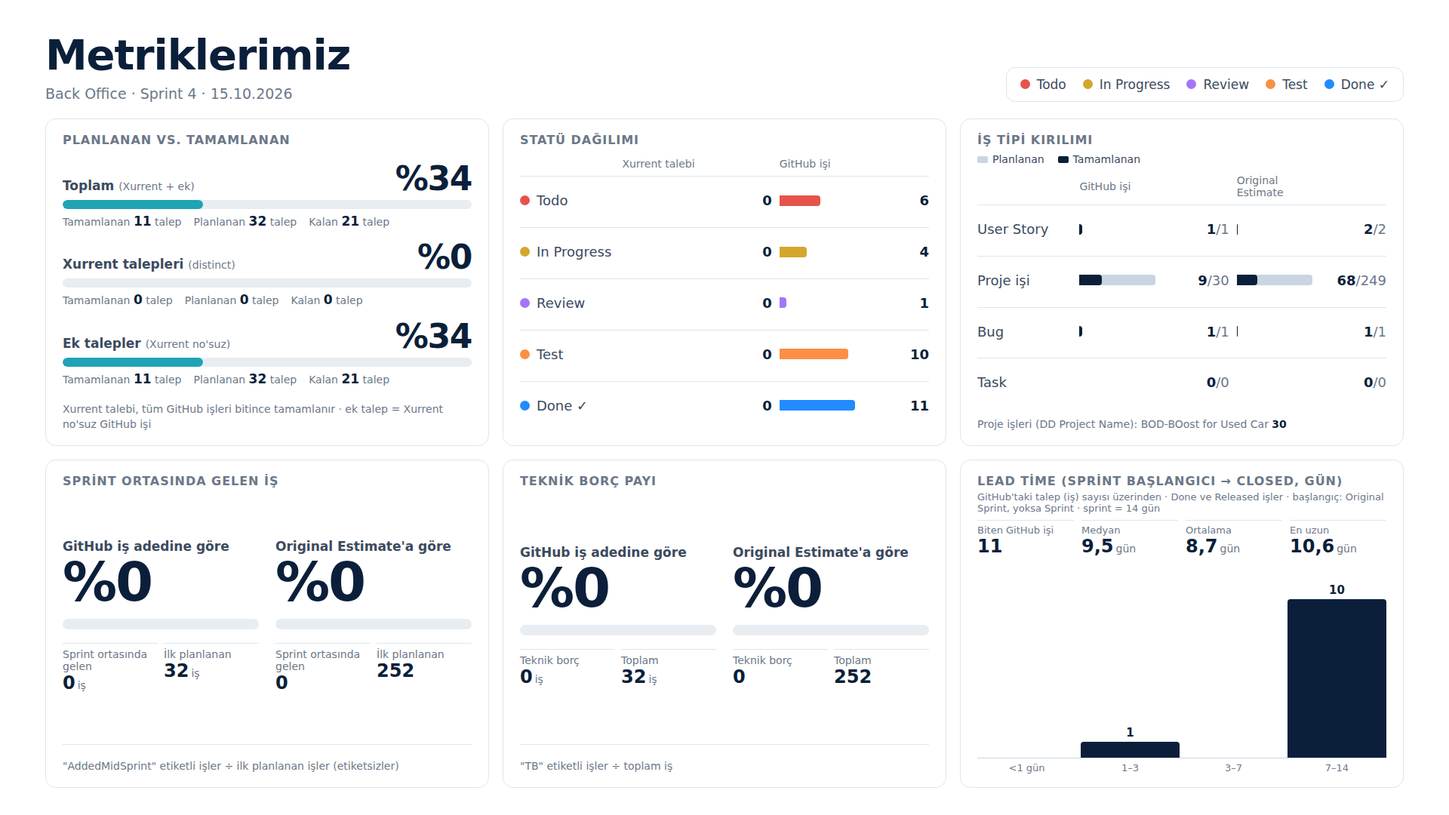
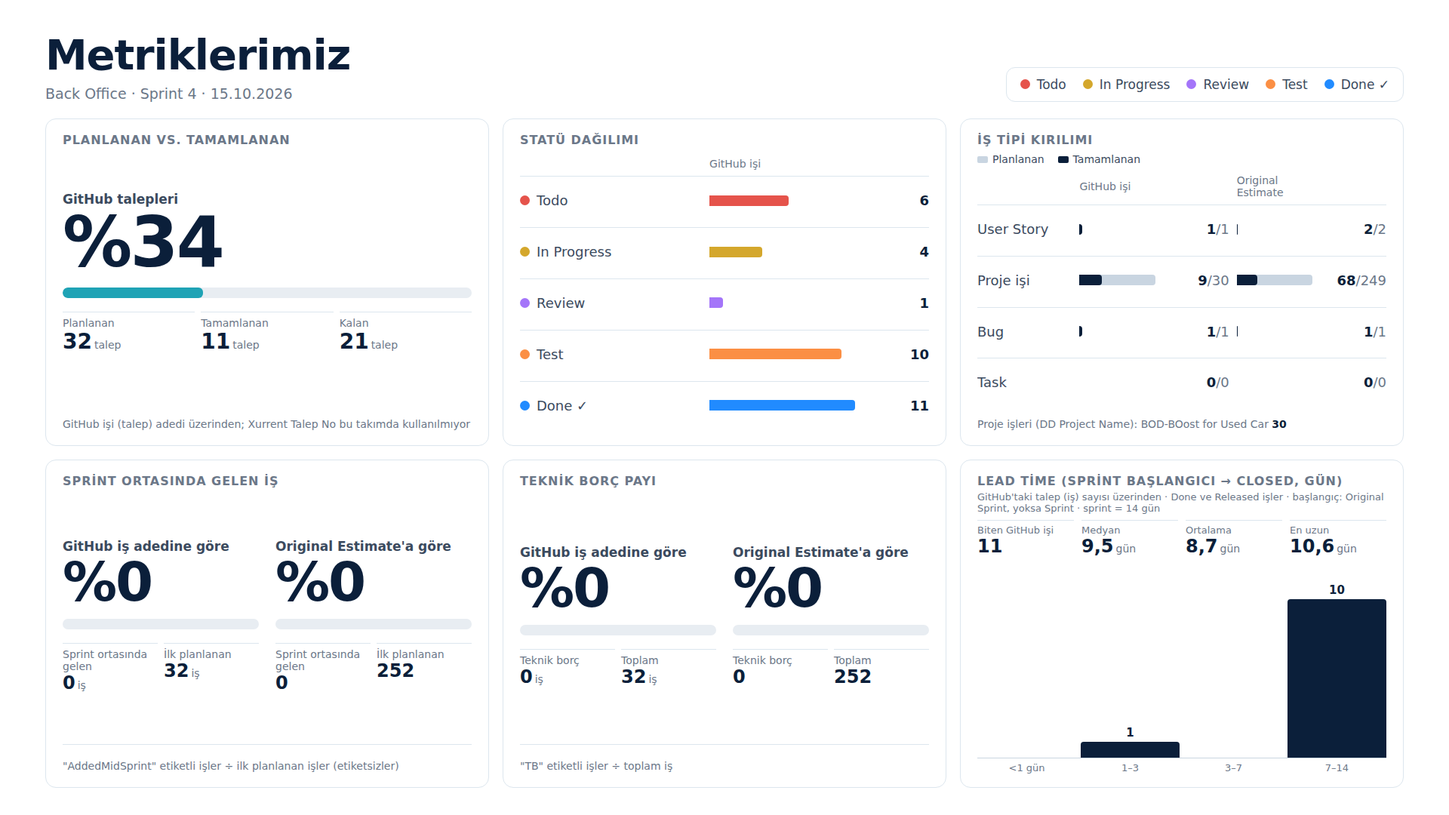
Back Office: --ignore-xurrent mode (GitHub item counts only) and merging parts via shared theme names
- --ignore-xurrent drops Xurrent grouping/ratios: single GitHub completion, single-column status, OE total only
- theme entries with the same name merge into one item with 'N talep' (e.g. BE + FE, SAP + Boomi)
- regenerate Back Office Sprint 4 slides

Claude-Session: https://claude.ai/code/session_014SYUQQBmb2NC56QaszpaqB

diff --git a/sunum/back-office-2026-10-15/back-office-slaytlar.html b/sunum/back-office-2026-10-15/back-office-slaytlar.html
@@ -168,10 +168,12 @@ h1 span { color:var(--accent); font-weight:600; }
 <div class="frame"><section class="slide" aria-label="Sprint'te Odaklandığımız İşler">
   <header>
     <div><h1>Sprint'te Odaklandığımız İşler</h1>
-      <div class="sub">Back Office · Sprint 4 · 15.10.2026 · 32 talep (32 GitHub işi)</div></div>
+      <div class="sub">Back Office · Sprint 4 · 15.10.2026 · 30 talep (32 GitHub işi)</div></div>
     <ul class="legend"><li><span class="dot" style="--c:#E5534B"></span>Todo</li><li><span class="dot" style="--c:#D4A72C"></span>In Progress</li><li><span class="dot" style="--c:#A475F9"></span>Review</li><li><span class="dot" style="--c:#FB8F44"></span>Test</li><li><span class="dot" style="--c:#218BFF"></span>Done ✓</li><li class="sep"></li><li><span class="cat story">Kategori</span>&nbsp;= iş tipi grubu</li><li><span class="kmeta">N talep</span>&nbsp;= GitHub işi adedi (birden fazlaysa)</li><li><span class="carry">↪ Sprint N</span>&nbsp;= o sprintten aktarıldı</li></ul>
   </header>
-  <div class="board" style="grid-template-columns:repeat(36, minmax(0,1fr))"><div class="lane" style="grid-column:span 6"><div class="lhead" style="--c:#E5534B"><span>Yapılacak</span><b>6</b><small>6 iş</small></div><div class="cards"><div class="kgroup"><div class="khead proj">Proje<span>6</span></div><div class="kitem" title="Todo · Jarivs/BOost Otomasyon Development"><span class="dot" style="--c:#E5534B"></span><span class="kt">Jarvis / BOost test otomasyonlarının geliştirilmesi</span></div><div class="kitem" title="Todo · Jarvis FE Deprecation Uyarılarının Giderilmesi ve Sadeleştirme Çalışmaları"><span class="dot" style="--c:#E5534B"></span><span class="kt">Jarvis arayüzünde eskiyen bileşen uyarılarının giderilmesi ve sadeleştirme</span></div><div class="kitem" title="Todo · Opsiyon Süreci Masterpass Entegrasyonu Teknik Analiz"><span class="dot" style="--c:#E5534B"></span><span class="kt">Opsiyon sürecine Masterpass ödeme entegrasyonu – teknik analiz</span></div><div class="kitem" title="Todo · SF Beklenenler"><span class="dot" style="--c:#E5534B"></span><span class="kt">Salesforce tarafından beklenenlerin takibi</span></div><div class="kitem" title="Todo · SAP Notlar"><span class="dot" style="--c:#E5534B"></span><span class="kt">SAP tarafında beklenen notların takibi</span></div><div class="kitem" title="Todo · 5.10.26/ 16.10.26 Sprint 4 Toplantı Taskı"><span class="dot" style="--c:#E5534B"></span><span class="kt">Sprint 4 toplantıları (05.10–16.10)</span></div></div></div></div><div class="lane" style="grid-column:span 5"><div class="lhead" style="--c:#D4A72C"><span>Geliştirmede</span><b>5</b><small>5 iş</small></div><div class="cards"><div class="kgroup"><div class="khead proj">Proje<span>5</span></div><div class="kitem" title="In Progress · BOI/BOPK - BOD Satış süreçlerinin entegrasyonu (Sap,devir süreçler, stoklaşma) Analizi"><span class="dot" style="--c:#D4A72C"></span><span class="kt">BOD satış süreçlerinin SAP, devir ve stoklaşma entegrasyonu analizi <span class="kmeta">In Progress</span></span></div><div class="kitem" title="In Progress · Jarvis FE Kod Temizliği"><span class="dot" style="--c:#D4A72C"></span><span class="kt">Jarvis arayüz kodunun temizlenmesi <span class="kmeta">In Progress</span></span></div><div class="kitem" title="In Progress · IDN-01 | Identity Kullanım Envanterinin Oluşturulması"><span class="dot" style="--c:#D4A72C"></span><span class="kt">Kimlik (Identity) kullanım envanterinin çıkarılması <span class="kmeta">In Progress</span></span></div><div class="kitem" title="In Progress · UCBoost Gelen Sorular için Destek"><span class="dot" style="--c:#D4A72C"></span><span class="kt">UCBoost kullanıcı sorularına destek <span class="kmeta">In Progress</span></span></div><div class="kitem" title="Review · Araç Opsiyonlama Analizi"><span class="dot" style="--c:#A475F9"></span><span class="kt">Araç opsiyonlama süreci analizi <span class="kmeta">Review</span></span></div></div></div></div><div class="lane" style="grid-column:span 10"><div class="lhead" style="--c:#FB8F44"><span>Test</span><b>10</b><small>10 iş</small></div><div class="cards"><div class="kgroup"><div class="khead proj">Proje<span>10</span></div><div class="kitem" title="Test · Araç Alım Faturası İptal Servisinin Geliştirilmesi (Boomi)"><span class="dot" style="--c:#FB8F44"></span><span class="kt">Araç alım faturası iptal servisi (Boomi entegrasyonu)</span></div><div class="kitem" title="Test · Araç Alım Faturası İptal Servisinin Geliştirilmesi (SAP)"><span class="dot" style="--c:#FB8F44"></span><span class="kt">Araç alım faturası iptal servisi (SAP)</span></div><div class="kitem" title="Test · Faturasız Devir Tamamlanan Araçların Otomatik Tespiti"><span class="dot" style="--c:#FB8F44"></span><span class="kt">Faturasız devri tamamlanan araçların otomatik tespiti</span></div><div class="kitem" title="Test · GİB Faturası ile Araç Eşleştirme"><span class="dot" style="--c:#FB8F44"></span><span class="kt">GİB faturası ile aracın otomatik eşleştirilmesi</span></div><div class="kitem" title="Test · Hatalı Beyan Tespiti ve Stok Alım Ters Kayıt Öncesi Onay Süreci Yönetimi"><span class="dot" style="--c:#FB8F44"></span><span class="kt">Hatalı beyan tespiti ve stok ters kaydı öncesi onay süreci</span></div><div class="kitem" title="Test · Location tablosuna IsphysicalBranch Alanı Ekleme"><span class="dot" style="--c:#FB8F44"></span><span class="kt">Lokasyonlarda fiziki şube bilgisinin tutulması</span></div><div class="kitem" title="Test · Otomatik Alış Zorunlu Kontroller Eklenmesi"><span class="dot" style="--c:#FB8F44"></span><span class="kt">Otomatik alışa zorunlu kontrollerin eklenmesi</span></div><div class="kitem" title="Test · Sevk Ekranı Düzenlemeler FE"><span class="dot" style="--c:#FB8F44"></span><span class="kt">Sevk ekranının iyileştirilmesi</span></div><div class="kitem" title="Test · Stok İptal ve Yeniden Stok Giriş İşlemi Sonucunda Bildirim Gönderilmesi"><span class="dot" style="--c:#FB8F44"></span><span class="kt">Stok iptali ve yeniden stok girişinde bildirim gönderilmesi</span></div><div class="kitem" title="Test · Stok Kaydının Ters Kayıtla İptali ve Yeniden Stoklaştırılması"><span class="dot" style="--c:#FB8F44"></span><span class="kt">Stok kaydının ters kayıtla iptali ve yeniden stoklanması</span></div></div></div></div><div class="lane" style="grid-column:span 12"><div class="lhead" style="--c:#218BFF"><span>Tamamlandı</span><b>11</b><small>11 iş</small></div><div class="cards"><div class="kgroup"><div class="khead proj">Proje<span>9</span></div><div class="kitem" title="Done · Araç Aktif Labellarının Araç Listesinde Görüntülenmesi"><span class="dot" style="--c:#218BFF"></span><span class="kt">Araç listesinde aktif etiketlerin gösterilmesi</span></div><div class="kitem" title="Done · Jarvis FE Codebase Analizi"><span class="dot" style="--c:#218BFF"></span><span class="kt">Jarvis arayüz kod tabanı analizi</span></div><div class="kitem" title="Done · Jarvis - Araç Sevk İşlemleri Otomasyonunun Hazırlanması"><span class="dot" style="--c:#218BFF"></span><span class="kt">Jarvis araç sevk işlemleri için test otomasyonu</span></div><div class="kitem" title="Done · Jarvise Araç İş Emirleri-Sevk Detay"><span class="dot" style="--c:#218BFF"></span><span class="kt">Jarvis&#x27;te araç iş emirleri ve sevk detayının gösterilmesi</span></div><div class="kitem" title="Done · Toplu Sevk BE İhtiyaçları"><span class="dot" style="--c:#218BFF"></span><span class="kt">Toplu sevk – arka uç ihtiyaçları</span></div><div class="kitem" title="Done · Toplu Sevk FE Bağlamalar"><span class="dot" style="--c:#218BFF"></span><span class="kt">Toplu sevk – ekran bağlantıları</span></div><div class="kitem" title="Done · Ucboostta Aramada Stoktaki Araçların Görünmesi"><span class="dot" style="--c:#218BFF"></span><span class="kt">UCBoost aramasında stoktaki araçların görünmesi</span></div><div class="kitem" title="Done · UCBOost Logo Değişimi"><span class="dot" style="--c:#218BFF"></span><span class="kt">UCBoost logosunun değiştirilmesi</span></div><div class="kitem" title="Done · UCBOost Yayılım Kullanıcı Geri Dönüşleri (FE)"><span class="dot" style="--c:#218BFF"></span><span class="kt">UCBoost yaygınlaştırma: kullanıcı geri bildirimlerinin uygulanması</span></div></div><div class="kgroup"><div class="khead story">User Story<span>1</span></div><div class="kitem" title="Done · Jenkins pipeline güncelleme"><span class="dot" style="--c:#218BFF"></span><span class="kt">Jenkins yayın hattının (pipeline) güncellenmesi</span></div></div><div class="kgroup"><div class="khead bug">Bug<span>1</span></div><div class="kitem" title="Done · [BUG] Jarvis BNEXT Araçlar Ekranında Filtreler Arasında Teslimat Statüsü Yok"><span class="dot" style="--c:#218BFF"></span><span class="kt">Jarvis BNext araçlar ekranında teslimat statüsü filtresinin olmaması</span></div></div></div></div><div class="lane" style="grid-column:span 3"><div class="lhead" style="--c:#C4CAD2"><span>Canlıda</span><b>0</b><small>0 iş</small></div><div class="cards"><div class="lempty">—</div></div></div></div>
+  <div class="board" style="grid-template-columns:repeat(34, minmax(0,1fr))"><div class="lane" style="grid-column:span 6"><div class="lhead" style="--c:#E5534B"><span>Yapılacak</span><b>6</b><small>6 iş</small></div><div class="cards"><div class="kgroup"><div class="khead proj">Proje<span>6</span></div><div class="kitem" title="Todo · Jarivs/BOost Otomasyon Development"><span class="dot" style="--c:#E5534B"></span><span class="kt">Jarvis / BOost test otomasyonlarının geliştirilmesi</span></div><div class="kitem" title="Todo · Jarvis FE Deprecation Uyarılarının Giderilmesi ve Sadeleştirme Çalışmaları"><span class="dot" style="--c:#E5534B"></span><span class="kt">Jarvis arayüzünde eskiyen bileşen uyarılarının giderilmesi ve sadeleştirme</span></div><div class="kitem" title="Todo · Opsiyon Süreci Masterpass Entegrasyonu Teknik Analiz"><span class="dot" style="--c:#E5534B"></span><span class="kt">Opsiyon sürecine Masterpass ödeme entegrasyonu – teknik analiz</span></div><div class="kitem" title="Todo · SF Beklenenler"><span class="dot" style="--c:#E5534B"></span><span class="kt">Salesforce tarafından beklenenlerin takibi</span></div><div class="kitem" title="Todo · SAP Notlar"><span class="dot" style="--c:#E5534B"></span><span class="kt">SAP tarafında beklenen notların takibi</span></div><div class="kitem" title="Todo · 5.10.26/ 16.10.26 Sprint 4 Toplantı Taskı"><span class="dot" style="--c:#E5534B"></span><span class="kt">Sprint 4 toplantıları (05.10–16.10)</span></div></div></div></div><div class="lane" style="grid-column:span 5"><div class="lhead" style="--c:#D4A72C"><span>Geliştirmede</span><b>5</b><small>5 iş</small></div><div class="cards"><div class="kgroup"><div class="khead proj">Proje<span>5</span></div><div class="kitem" title="In Progress · BOI/BOPK - BOD Satış süreçlerinin entegrasyonu (Sap,devir süreçler, stoklaşma) Analizi"><span class="dot" style="--c:#D4A72C"></span><span class="kt">BOD satış süreçlerinin SAP, devir ve stoklaşma entegrasyonu analizi <span class="kmeta">In Progress</span></span></div><div class="kitem" title="In Progress · Jarvis FE Kod Temizliği"><span class="dot" style="--c:#D4A72C"></span><span class="kt">Jarvis arayüz kodunun temizlenmesi <span class="kmeta">In Progress</span></span></div><div class="kitem" title="In Progress · IDN-01 | Identity Kullanım Envanterinin Oluşturulması"><span class="dot" style="--c:#D4A72C"></span><span class="kt">Kimlik (Identity) kullanım envanterinin çıkarılması <span class="kmeta">In Progress</span></span></div><div class="kitem" title="In Progress · UCBoost Gelen Sorular için Destek"><span class="dot" style="--c:#D4A72C"></span><span class="kt">UCBoost kullanıcı sorularına destek <span class="kmeta">In Progress</span></span></div><div class="kitem" title="Review · Araç Opsiyonlama Analizi"><span class="dot" style="--c:#A475F9"></span><span class="kt">Araç opsiyonlama süreci analizi <span class="kmeta">Review</span></span></div></div></div></div><div class="lane" style="grid-column:span 9"><div class="lhead" style="--c:#FB8F44"><span>Test</span><b>9</b><small>10 iş</small></div><div class="cards"><div class="kgroup"><div class="khead proj">Proje<span>9</span></div><div class="kitem" title="Test · Araç Alım Faturası İptal Servisinin Geliştirilmesi (SAP)
+Test · Araç Alım Faturası İptal Servisinin Geliştirilmesi (Boomi)"><span class="dot" style="--c:#FB8F44"></span><span class="kt">Araç alım faturası iptal servisi (SAP + Boomi) <span class="kmeta">2 talep</span></span></div><div class="kitem" title="Test · Faturasız Devir Tamamlanan Araçların Otomatik Tespiti"><span class="dot" style="--c:#FB8F44"></span><span class="kt">Faturasız devri tamamlanan araçların otomatik tespiti</span></div><div class="kitem" title="Test · GİB Faturası ile Araç Eşleştirme"><span class="dot" style="--c:#FB8F44"></span><span class="kt">GİB faturası ile aracın otomatik eşleştirilmesi</span></div><div class="kitem" title="Test · Hatalı Beyan Tespiti ve Stok Alım Ters Kayıt Öncesi Onay Süreci Yönetimi"><span class="dot" style="--c:#FB8F44"></span><span class="kt">Hatalı beyan tespiti ve stok ters kaydı öncesi onay süreci</span></div><div class="kitem" title="Test · Location tablosuna IsphysicalBranch Alanı Ekleme"><span class="dot" style="--c:#FB8F44"></span><span class="kt">Lokasyonlarda fiziki şube bilgisinin tutulması</span></div><div class="kitem" title="Test · Otomatik Alış Zorunlu Kontroller Eklenmesi"><span class="dot" style="--c:#FB8F44"></span><span class="kt">Otomatik alışa zorunlu kontrollerin eklenmesi</span></div><div class="kitem" title="Test · Sevk Ekranı Düzenlemeler FE"><span class="dot" style="--c:#FB8F44"></span><span class="kt">Sevk ekranının iyileştirilmesi</span></div><div class="kitem" title="Test · Stok İptal ve Yeniden Stok Giriş İşlemi Sonucunda Bildirim Gönderilmesi"><span class="dot" style="--c:#FB8F44"></span><span class="kt">Stok iptali ve yeniden stok girişinde bildirim gönderilmesi</span></div><div class="kitem" title="Test · Stok Kaydının Ters Kayıtla İptali ve Yeniden Stoklaştırılması"><span class="dot" style="--c:#FB8F44"></span><span class="kt">Stok kaydının ters kayıtla iptali ve yeniden stoklanması</span></div></div></div></div><div class="lane" style="grid-column:span 11"><div class="lhead" style="--c:#218BFF"><span>Tamamlandı</span><b>10</b><small>11 iş</small></div><div class="cards"><div class="kgroup"><div class="khead proj">Proje<span>8</span></div><div class="kitem" title="Done · Araç Aktif Labellarının Araç Listesinde Görüntülenmesi"><span class="dot" style="--c:#218BFF"></span><span class="kt">Araç listesinde aktif etiketlerin gösterilmesi</span></div><div class="kitem" title="Done · Jarvis FE Codebase Analizi"><span class="dot" style="--c:#218BFF"></span><span class="kt">Jarvis arayüz kod tabanı analizi</span></div><div class="kitem" title="Done · Jarvis - Araç Sevk İşlemleri Otomasyonunun Hazırlanması"><span class="dot" style="--c:#218BFF"></span><span class="kt">Jarvis araç sevk işlemleri için test otomasyonu</span></div><div class="kitem" title="Done · Jarvise Araç İş Emirleri-Sevk Detay"><span class="dot" style="--c:#218BFF"></span><span class="kt">Jarvis&#x27;te araç iş emirleri ve sevk detayının gösterilmesi</span></div><div class="kitem" title="Done · Toplu Sevk FE Bağlamalar
+Done · Toplu Sevk BE İhtiyaçları"><span class="dot" style="--c:#218BFF"></span><span class="kt">Toplu sevk talebi oluşturabilme <span class="kmeta">2 talep</span></span></div><div class="kitem" title="Done · Ucboostta Aramada Stoktaki Araçların Görünmesi"><span class="dot" style="--c:#218BFF"></span><span class="kt">UCBoost aramasında stoktaki araçların görünmesi</span></div><div class="kitem" title="Done · UCBOost Logo Değişimi"><span class="dot" style="--c:#218BFF"></span><span class="kt">UCBoost logosunun değiştirilmesi</span></div><div class="kitem" title="Done · UCBOost Yayılım Kullanıcı Geri Dönüşleri (FE)"><span class="dot" style="--c:#218BFF"></span><span class="kt">UCBoost yaygınlaştırma: kullanıcı geri bildirimlerinin uygulanması</span></div></div><div class="kgroup"><div class="khead story">User Story<span>1</span></div><div class="kitem" title="Done · Jenkins pipeline güncelleme"><span class="dot" style="--c:#218BFF"></span><span class="kt">Jenkins yayın hattının (pipeline) güncellenmesi</span></div></div><div class="kgroup"><div class="khead bug">Bug<span>1</span></div><div class="kitem" title="Done · [BUG] Jarvis BNEXT Araçlar Ekranında Filtreler Arasında Teslimat Statüsü Yok"><span class="dot" style="--c:#218BFF"></span><span class="kt">Jarvis BNext araçlar ekranında teslimat statüsü filtresinin olmaması</span></div></div></div></div><div class="lane" style="grid-column:span 3"><div class="lhead" style="--c:#C4CAD2"><span>Canlıda</span><b>0</b><small>0 iş</small></div><div class="cards"><div class="lempty">—</div></div></div></div>
 </section></div>
 
 <div class="frame"><section class="slide" aria-label="Metriklerimiz">
@@ -181,29 +183,19 @@ h1 span { color:var(--accent); font-weight:600; }
   </header>
   <div class="grid">
     <div class="panel"><div class="ptitle">Planlanan vs. tamamlanan</div><div class="minis">
-<div class="mini">
-  <div class="mtop"><span class="mlabel">Toplam <small>(Xurrent + ek)</small></span><span class="mhero">%34</span></div>
+<div class="comp">
+  <div class="clabel">GitHub talepleri</div>
+  <div class="chero">%34</div>
   <div class="bar"><i style="width:34.38%"></i></div>
-  <div class="mnums"><span>Tamamlanan <b>11</b> talep</span><span>Planlanan <b>32</b> talep</span>
-    <span>Kalan <b>21</b> talep</span></div>
-  
-</div>
-<div class="mini">
-  <div class="mtop"><span class="mlabel">Xurrent talepleri <small>(distinct)</small></span><span class="mhero">%0</span></div>
-  <div class="bar"><i style="width:0.00%"></i></div>
-  <div class="mnums"><span>Tamamlanan <b>0</b> talep</span><span>Planlanan <b>0</b> talep</span>
-    <span>Kalan <b>0</b> talep</span></div>
-  
-</div>
-<div class="mini">
-  <div class="mtop"><span class="mlabel">Ek talepler <small>(Xurrent no'suz)</small></span><span class="mhero">%34</span></div>
-  <div class="bar"><i style="width:34.38%"></i></div>
-  <div class="mnums"><span>Tamamlanan <b>11</b> talep</span><span>Planlanan <b>32</b> talep</span>
-    <span>Kalan <b>21</b> talep</span></div>
-  
+  <div class="cnums">
+    <div><span>Planlanan</span><b>32<small>talep</small></b></div>
+    <div><span>Tamamlanan</span><b>11<small>talep</small></b></div>
+    <div><span>Kalan</span><b>21<small>talep</small></b></div>
+  </div>
+  <div class="cnote">&nbsp;</div>
 </div></div>
-      <div class="pfoot">Xurrent talebi, tüm GitHub işleri bitince tamamlanır · ek talep = Xurrent no'suz GitHub işi</div></div>
-    <div class="panel"><div class="ptitle">Statü dağılımı</div><div class="dual"><div class="dhead" style="grid-template-columns:minmax(0,1.25fr) minmax(0,1fr) 88px minmax(0,1fr) 88px"><span></span><span>Xurrent talebi</span><span></span><span>GitHub işi</span><span></span></div><div class="drow" style="grid-template-columns:minmax(0,1.25fr) minmax(0,1fr) 88px minmax(0,1fr) 88px"><div class="dl" title="Todo"><span class="dot" style="--c:#E5534B"></span>Todo</div><div class="db" title="Todo · Xurrent talebi: 0"><div class="fi" style="width:0.00%;background:#E5534B"></div></div><div class="dv">0</div><div class="db" title="Todo · GitHub işi: 6"><div class="fi" style="width:54.55%;background:#E5534B"></div></div><div class="dv">6</div></div><div class="drow" style="grid-template-columns:minmax(0,1.25fr) minmax(0,1fr) 88px minmax(0,1fr) 88px"><div class="dl" title="In Progress"><span class="dot" style="--c:#D4A72C"></span>In Progress</div><div class="db" title="In Progress · Xurrent talebi: 0"><div class="fi" style="width:0.00%;background:#D4A72C"></div></div><div class="dv">0</div><div class="db" title="In Progress · GitHub işi: 4"><div class="fi" style="width:36.36%;background:#D4A72C"></div></div><div class="dv">4</div></div><div class="drow" style="grid-template-columns:minmax(0,1.25fr) minmax(0,1fr) 88px minmax(0,1fr) 88px"><div class="dl" title="Review"><span class="dot" style="--c:#A475F9"></span>Review</div><div class="db" title="Review · Xurrent talebi: 0"><div class="fi" style="width:0.00%;background:#A475F9"></div></div><div class="dv">0</div><div class="db" title="Review · GitHub işi: 1"><div class="fi" style="width:9.09%;background:#A475F9"></div></div><div class="dv">1</div></div><div class="drow" style="grid-template-columns:minmax(0,1.25fr) minmax(0,1fr) 88px minmax(0,1fr) 88px"><div class="dl" title="Test"><span class="dot" style="--c:#FB8F44"></span>Test</div><div class="db" title="Test · Xurrent talebi: 0"><div class="fi" style="width:0.00%;background:#FB8F44"></div></div><div class="dv">0</div><div class="db" title="Test · GitHub işi: 10"><div class="fi" style="width:90.91%;background:#FB8F44"></div></div><div class="dv">10</div></div><div class="drow" style="grid-template-columns:minmax(0,1.25fr) minmax(0,1fr) 88px minmax(0,1fr) 88px"><div class="dl" title="Done ✓"><span class="dot" style="--c:#218BFF"></span>Done ✓</div><div class="db" title="Done ✓ · Xurrent talebi: 0"><div class="fi" style="width:0.00%;background:#218BFF"></div></div><div class="dv">0</div><div class="db" title="Done ✓ · GitHub işi: 11"><div class="fi" style="width:100.00%;background:#218BFF"></div></div><div class="dv">11</div></div></div></div>
+      <div class="pfoot">GitHub işi (talep) adedi üzerinden; Xurrent Talep No bu takımda kullanılmıyor</div></div>
+    <div class="panel"><div class="ptitle">Statü dağılımı</div><div class="dual"><div class="dhead" style="grid-template-columns:minmax(0,1.25fr) minmax(0,1fr) 88px"><span></span><span>GitHub işi</span><span></span></div><div class="drow" style="grid-template-columns:minmax(0,1.25fr) minmax(0,1fr) 88px"><div class="dl" title="Todo"><span class="dot" style="--c:#E5534B"></span>Todo</div><div class="db" title="Todo · GitHub işi: 6"><div class="fi" style="width:54.55%;background:#E5534B"></div></div><div class="dv">6</div></div><div class="drow" style="grid-template-columns:minmax(0,1.25fr) minmax(0,1fr) 88px"><div class="dl" title="In Progress"><span class="dot" style="--c:#D4A72C"></span>In Progress</div><div class="db" title="In Progress · GitHub işi: 4"><div class="fi" style="width:36.36%;background:#D4A72C"></div></div><div class="dv">4</div></div><div class="drow" style="grid-template-columns:minmax(0,1.25fr) minmax(0,1fr) 88px"><div class="dl" title="Review"><span class="dot" style="--c:#A475F9"></span>Review</div><div class="db" title="Review · GitHub işi: 1"><div class="fi" style="width:9.09%;background:#A475F9"></div></div><div class="dv">1</div></div><div class="drow" style="grid-template-columns:minmax(0,1.25fr) minmax(0,1fr) 88px"><div class="dl" title="Test"><span class="dot" style="--c:#FB8F44"></span>Test</div><div class="db" title="Test · GitHub işi: 10"><div class="fi" style="width:90.91%;background:#FB8F44"></div></div><div class="dv">10</div></div><div class="drow" style="grid-template-columns:minmax(0,1.25fr) minmax(0,1fr) 88px"><div class="dl" title="Done ✓"><span class="dot" style="--c:#218BFF"></span>Done ✓</div><div class="db" title="Done ✓ · GitHub işi: 11"><div class="fi" style="width:100.00%;background:#218BFF"></div></div><div class="dv">11</div></div></div></div>
     <div class="panel"><div class="ptitle">İş tipi kırılımı</div>
       <div class="pkey"><span style="--k:var(--plan)">Planlanan</span><span style="--k:var(--ink)">Tamamlanan</span></div>
       <div class="dual"><div class="dhead" style="grid-template-columns:minmax(0,1.25fr) minmax(0,1fr) 88px minmax(0,1fr) 88px"><span></span><span>GitHub işi</span><span></span><span>Original Estimate</span><span></span></div><div class="drow" style="grid-template-columns:minmax(0,1.25fr) minmax(0,1fr) 88px minmax(0,1fr) 88px"><div class="dl" title="User Story">User Story</div><div class="db" title="User Story · GitHub işi: 1"><div class="tr" style="width:3.33%"></div><div class="fi" style="width:3.33%"></div></div><div class="dv">1<span>/1</span></div><div class="db" title="User Story · Original Estimate: 2"><div class="tr" style="width:0.80%"></div><div class="fi" style="width:0.80%"></div></div><div class="dv">2<span>/2</span></div></div><div class="drow" style="grid-template-columns:minmax(0,1.25fr) minmax(0,1fr) 88px minmax(0,1fr) 88px"><div class="dl" title="Proje işi">Proje işi</div><div class="db" title="Proje işi · GitHub işi: 30"><div class="tr" style="width:100.00%"></div><div class="fi" style="width:30.00%"></div></div><div class="dv">9<span>/30</span></div><div class="db" title="Proje işi · Original Estimate: 249"><div class="tr" style="width:100.00%"></div><div class="fi" style="width:27.31%"></div></div><div class="dv">68<span>/249</span></div></div><div class="drow" style="grid-template-columns:minmax(0,1.25fr) minmax(0,1fr) 88px minmax(0,1fr) 88px"><div class="dl" title="Bug">Bug</div><div class="db" title="Bug · GitHub işi: 1"><div class="tr" style="width:3.33%"></div><div class="fi" style="width:3.33%"></div></div><div class="dv">1<span>/1</span></div><div class="db" title="Bug · Original Estimate: 1"><div class="tr" style="width:0.40%"></div><div class="fi" style="width:0.40%"></div></div><div class="dv">1<span>/1</span></div></div><div class="drow" style="grid-template-columns:minmax(0,1.25fr) minmax(0,1fr) 88px minmax(0,1fr) 88px"><div class="dl" title="Task">Task</div><div class="db" title="Task · GitHub işi: 0"><div class="tr" style="width:0.00%"></div><div class="fi" style="width:0.00%"></div></div><div class="dv">0<span>/0</span></div><div class="db" title="Task · Original Estimate: 0"><div class="tr" style="width:0.00%"></div><div class="fi" style="width:0.00%"></div></div><div class="dv">0<span>/0</span></div></div></div>
@@ -269,20 +261,6 @@ h1 span { color:var(--accent); font-weight:600; }
   <div class="mnums"><span>Tamamlanan <b>71</b></span><span>Planlanan <b>252</b></span>
     <span>Kalan <b>181</b></span></div>
   <div class="cnote">7 işin Original Estimate'ı boş (0 sayıldı)</div>
-</div>
-<div class="mini">
-  <div class="mtop"><span class="mlabel">Xurrent talepleri</span><span class="mhero">%0</span></div>
-  <div class="bar"><i style="width:0.00%"></i></div>
-  <div class="mnums"><span>Tamamlanan <b>0</b></span><span>Planlanan <b>0</b></span>
-    <span>Kalan <b>0</b></span></div>
-  
-</div>
-<div class="mini">
-  <div class="mtop"><span class="mlabel">Ek talepler <small>(Xurrent no'suz)</small></span><span class="mhero">%28</span></div>
-  <div class="bar"><i style="width:28.17%"></i></div>
-  <div class="mnums"><span>Tamamlanan <b>71</b></span><span>Planlanan <b>252</b></span>
-    <span>Kalan <b>181</b></span></div>
-  
 </div></div></div>
     <div class="panel"><div class="ptitle">Statü dağılımı · Original Estimate</div><div class="dual"><div class="dhead" style="grid-template-columns:minmax(0,1.25fr) minmax(0,1fr) 88px"><span></span><span>Original Estimate</span><span></span></div><div class="drow" style="grid-template-columns:minmax(0,1.25fr) minmax(0,1fr) 88px"><div class="dl" title="Todo"><span class="dot" style="--c:#E5534B"></span>Todo</div><div class="db" title="Todo · Original Estimate: 24"><div class="fi" style="width:33.80%;background:#E5534B"></div></div><div class="dv">24</div></div><div class="drow" style="grid-template-columns:minmax(0,1.25fr) minmax(0,1fr) 88px"><div class="dl" title="In Progress"><span class="dot" style="--c:#D4A72C"></span>In Progress</div><div class="db" title="In Progress · Original Estimate: 40"><div class="fi" style="width:56.34%;background:#D4A72C"></div></div><div class="dv">40</div></div><div class="drow" style="grid-template-columns:minmax(0,1.25fr) minmax(0,1fr) 88px"><div class="dl" title="Review"><span class="dot" style="--c:#A475F9"></span>Review</div><div class="db" title="Review · Original Estimate: 48"><div class="fi" style="width:67.61%;background:#A475F9"></div></div><div class="dv">48</div></div><div class="drow" style="grid-template-columns:minmax(0,1.25fr) minmax(0,1fr) 88px"><div class="dl" title="Test"><span class="dot" style="--c:#FB8F44"></span>Test</div><div class="db" title="Test · Original Estimate: 69"><div class="fi" style="width:97.18%;background:#FB8F44"></div></div><div class="dv">69</div></div><div class="drow" style="grid-template-columns:minmax(0,1.25fr) minmax(0,1fr) 88px"><div class="dl" title="Done ✓"><span class="dot" style="--c:#218BFF"></span>Done ✓</div><div class="db" title="Done ✓ · Original Estimate: 71"><div class="fi" style="width:100.00%;background:#218BFF"></div></div><div class="dv">71</div></div></div></div>
     <div class="panel"><div class="ptitle">Kişi bazında planlanan vs. tamamlanan</div>

diff --git a/.claude/skills/gelistirmeler-raporu/scripts/build_slides.py b/.claude/skills/gelistirmeler-raporu/scripts/build_slides.py
@@ -167,12 +167,21 @@ def group_items(rows: list[dict], order: dict, themes: dict) -> list[dict]:
             key = ("bug:" if r["kind"] == "Bug" else "") + tr_lower(base_title(r["raw_title"]))
         g = groups.setdefault(key, {"key": key, "xno": r["xno"], "items": []})
         g["items"].append(r)
-    out = []
+    # temalar.json'da aynı ad verilen talep no'suz gruplar tek madde olur (ör. BE + FE, SAP + Boomi)
+    merged: dict[str, dict] = {}
     for g in groups.values():
         its = g["items"]
         default = min((base_title(i["raw_title"]) for i in its), key=len) or its[0]["title"]
         th = themes.get(g["key"])
         g["name"] = (th.get("name") if isinstance(th, dict) else th) or default
+        mkey = g["xno"] or ("name:" + tr_lower(g["name"]) if th else g["key"])
+        if mkey in merged:
+            merged[mkey]["items"].extend(its)
+        else:
+            merged[mkey] = g
+    out = []
+    for g in merged.values():
+        its = g["items"]
         kinds = collections.Counter(i["kind"] for i in its)
         g["kind"] = sorted(kinds, key=lambda k: (-kinds[k], TYPES.index(k)))[0]
         g["status"] = min((i["status"] for i in its), key=lambda s: order.get(s, 999))
@@ -389,7 +398,9 @@ def build(a) -> None:
         r["est"] = float(v) if isinstance(v, (int, float)) else 0.0
         xf = r["fields"].get(a.xurrent_field)
         m = XNO_RE.match(r["raw_title"])
-        if xf not in (None, ""):
+        if a.ignore_xurrent:
+            r["xno"] = None
+        elif xf not in (None, ""):
             r["xno"] = re.sub(r"\.0$", "", str(xf)).strip()
         else:
             # Sütun boşsa başlıktaki numara; sütun varsa bunu veri eksiği olarak raporla
@@ -440,9 +451,15 @@ def build(a) -> None:
     xg = [g for g in groups if g["xno"]]
     ek = [r for r in rows if not r["xno"]]
     x_done, e_done_n = sum(g["done"] for g in xg), sum(r["done"] for r in ek)
-    comp = (mini_comp("Toplam <small>(Xurrent + ek)</small>", x_done + e_done_n, len(xg) + len(ek), "talep")
-            + mini_comp("Xurrent talepleri <small>(distinct)</small>", x_done, len(xg), "talep")
-            + mini_comp("Ek talepler <small>(Xurrent no'suz)</small>", e_done_n, len(ek), "talep"))
+    if a.ignore_xurrent:
+        comp = completion_block("GitHub talepleri", e_done_n, len(ek), "talep")
+    else:
+        comp = (mini_comp("Toplam <small>(Xurrent + ek)</small>", x_done + e_done_n, len(xg) + len(ek), "talep")
+                + mini_comp("Xurrent talepleri <small>(distinct)</small>", x_done, len(xg), "talep")
+                + mini_comp("Ek talepler <small>(Xurrent no'suz)</small>", e_done_n, len(ek), "talep"))
+    comp_note = ("GitHub işi (talep) adedi üzerinden; Xurrent Talep No bu takımda kullanılmıyor"
+                 if a.ignore_xurrent else
+                 "Xurrent talebi, tüm GitHub işleri bitince tamamlanır · ek talep = Xurrent no'suz GitHub işi")
     status_rows = []
     for o in used_opts:
         mem = [r for r in rows if r["status"] == o["name"]]
@@ -501,9 +518,10 @@ def build(a) -> None:
     missing = sum(1 for r in rows if not r["est"])
     oe = (mini_comp("Toplam", sum(r["est"] for r in rows if r["done"]), sum(r["est"] for r in rows), unit,
                     f"{missing} işin {esc(est_label)}'ı boş (0 sayıldı)" if missing else "")
-          + mini_comp("Xurrent talepleri", sum(r["est"] for r in xe if r["done"]), sum(r["est"] for r in xe), unit)
-          + mini_comp("Ek talepler <small>(Xurrent no'suz)</small>", sum(r["est"] for r in ek if r["done"]),
-                      sum(r["est"] for r in ek), unit))
+          + ("" if a.ignore_xurrent else
+             mini_comp("Xurrent talepleri", sum(r["est"] for r in xe if r["done"]), sum(r["est"] for r in xe), unit)
+             + mini_comp("Ek talepler <small>(Xurrent no'suz)</small>", sum(r["est"] for r in ek if r["done"]),
+                         sum(r["est"] for r in ek), unit)))
     people = {}
     for r in rows:
         for p in r["assignees"] or ["Atanmamış"]:
@@ -540,8 +558,9 @@ def build(a) -> None:
     page = TEMPLATE.format(
         subtitle=esc(subtitle), legend=legend, focus_key=focus_key, focus=focus,
         n_groups=len(groups), n_items=len(rows), n_carry=n_carry,
-        comp=comp, status=multi_table(status_rows, [{"key": "x", "head": "Xurrent talebi"},
-                                                    {"key": "c", "head": "GitHub işi"}]),
+        comp=comp, comp_note=comp_note,
+        status=multi_table(status_rows, ([] if a.ignore_xurrent else [{"key": "x", "head": "Xurrent talebi"}])
+                           + [{"key": "c", "head": "GitHub işi"}]),
         types=multi_table(type_rows, [{"key": "c", "done": "cd", "head": "GitHub işi"},
                                       {"key": "e", "done": "ed", "head": est_label}]),
         projects=proj_txt, pfield=esc(a.project_field), midp=midp, tbp=tbp,
@@ -752,7 +771,7 @@ h1 span {{ color:var(--accent); font-weight:600; }}
   </header>
   <div class="grid">
     <div class="panel"><div class="ptitle">Planlanan vs. tamamlanan</div><div class="minis">{comp}</div>
-      <div class="pfoot">Xurrent talebi, tüm GitHub işleri bitince tamamlanır · ek talep = Xurrent no'suz GitHub işi</div></div>
+      <div class="pfoot">{comp_note}</div></div>
     <div class="panel"><div class="ptitle">Statü dağılımı</div>{status}</div>
     <div class="panel"><div class="ptitle">İş tipi kırılımı</div>
       <div class="pkey"><span style="--k:var(--plan)">Planlanan</span><span style="--k:var(--ink)">Tamamlanan</span></div>
@@ -856,6 +875,8 @@ def main() -> None:
     ap.add_argument("--estimate-label", default="Original Estimate")
     ap.add_argument("--xurrent-field", default="Xurrent Talep No",
                     help="Talep no alanı; yoksa başlıktaki baştaki numara kullanılır")
+    ap.add_argument("--ignore-xurrent", action="store_true",
+                    help="Xurrent Talep No'yu yok say; metrikler yalnız GitHub işi adedi üzerinden")
     ap.add_argument("--origin-field", default="Original Sprint",
                     help="Doluysa iş önceki sprintten aktarılmış sayılır")
     ap.add_argument("--project-field", default="DD Project Name", help="Doluysa 'Proje işi'")
